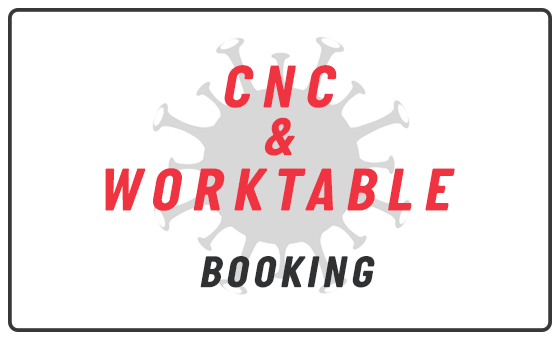
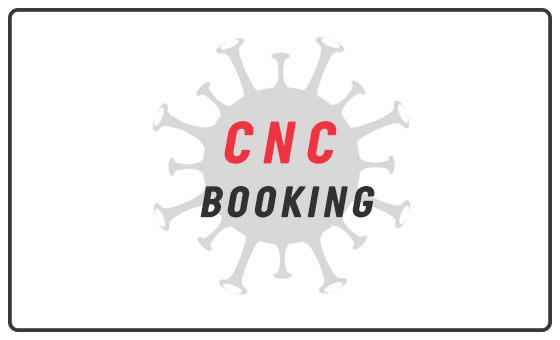
Worktable booking

Changed region(s): [[0.1821, 0.1765, 0.8196, 0.6471], [0.3339, 0.7353, 0.6679, 0.8529]]

diff --git a/booking.html b/booking.html
@@ -96,7 +96,7 @@
                     <br>
                     <font size="7" color="red">WHO GET ACCESS? </font>
                     <br>
-                    <font size="5" color="red">You need to book a machine or a worktabel to get access to Makerlab! <a href="./assets/COVID Protocol-v2.pdf">Read More.</a> </font>
+                    <font size="5" color="red">You need to book a machine and/or a worktabel to get access to Makerlab! <a href="./assets/COVID Protocol-v2.pdf">Read More.</a> </font>
                     <br>
                     <br>
                     <br>
@@ -147,6 +147,65 @@
                                 </a>
                             </div>
                         </div>
+                                                                                                                  
+                    </div>
+                    <h2>Worktables:</h2>
+                     <div class="row">
+                         <!-- Table1 -->
+                        <div class="col-sm-4">
+                            <div class="portfolio-item">
+                                <a href="https://docs.google.com/spreadsheets/d/1OFlcz-9Z1hUxmlW3S8r-3W4uFrqaVC2T0Ork1d7mdZo/edit?usp=sharing">
+                                    <img class="img-portfolio img-responsive" src="img/COVID_Table1_Booking.png">
+                                    
+                                </a>
+                            </div>
+                        </div>
+                        
+                        <!-- Table2 -->
+                        <div class="col-sm-4">
+                            <div class="portfolio-item">
+                                <a href="https://docs.google.com/spreadsheets/d/1OFlcz-9Z1hUxmlW3S8r-3W4uFrqaVC2T0Ork1d7mdZo/edit?usp=sharing">
+                                    <img class="img-portfolio img-responsive" src="img/COVID_Table2_Booking.png">
+                                </a>
+                            </div>
+                        </div>
+
+                        <!-- Table3 -->
+                        <div class="col-sm-4">
+                            <div class="portfolio-item">
+                                <a href="https://docs.google.com/spreadsheets/d/1OFlcz-9Z1hUxmlW3S8r-3W4uFrqaVC2T0Ork1d7mdZo/edit?usp=sharing">
+                                    <img class="img-portfolio img-responsive" src="img/COVID_Table3_Booking.png">
+                                </a>
+                            </div>
+                        </div>
+                        
+                        <!-- Table4 -->
+                        <div class="col-sm-4">
+                            <div class="portfolio-item">
+                                <a href="https://docs.google.com/spreadsheets/d/1OFlcz-9Z1hUxmlW3S8r-3W4uFrqaVC2T0Ork1d7mdZo/edit?usp=sharing">
+                                    <img class="img-portfolio img-responsive" src="img/COVID_Table4_Booking.png">
+                                </a>
+                            </div>
+                        </div>
+                        
+                        <!-- Table5 -->
+                        <div class="col-sm-4">
+                            <div class="portfolio-item">
+                                <a href="https://docs.google.com/spreadsheets/d/1OFlcz-9Z1hUxmlW3S8r-3W4uFrqaVC2T0Ork1d7mdZo/edit?usp=sharing">
+                                    <img class="img-portfolio img-responsive" src="img/COVID_Table5_Booking.png">
+                                </a>
+                            </div>
+                        </div>
+                         
+                        <!-- Table6 -->
+                        <div class="col-sm-4">
+                            <div class="portfolio-item">
+                                <a href="https://docs.google.com/spreadsheets/d/1OFlcz-9Z1hUxmlW3S8r-3W4uFrqaVC2T0Ork1d7mdZo/edit?usp=sharing">
+                                    <img class="img-portfolio img-responsive" src="img/COVID_Table6_Booking.png">
+                                </a>
+                            </div>
+                        </div>
+                         
                                                                                                                   
                     </div>
                 </div>
